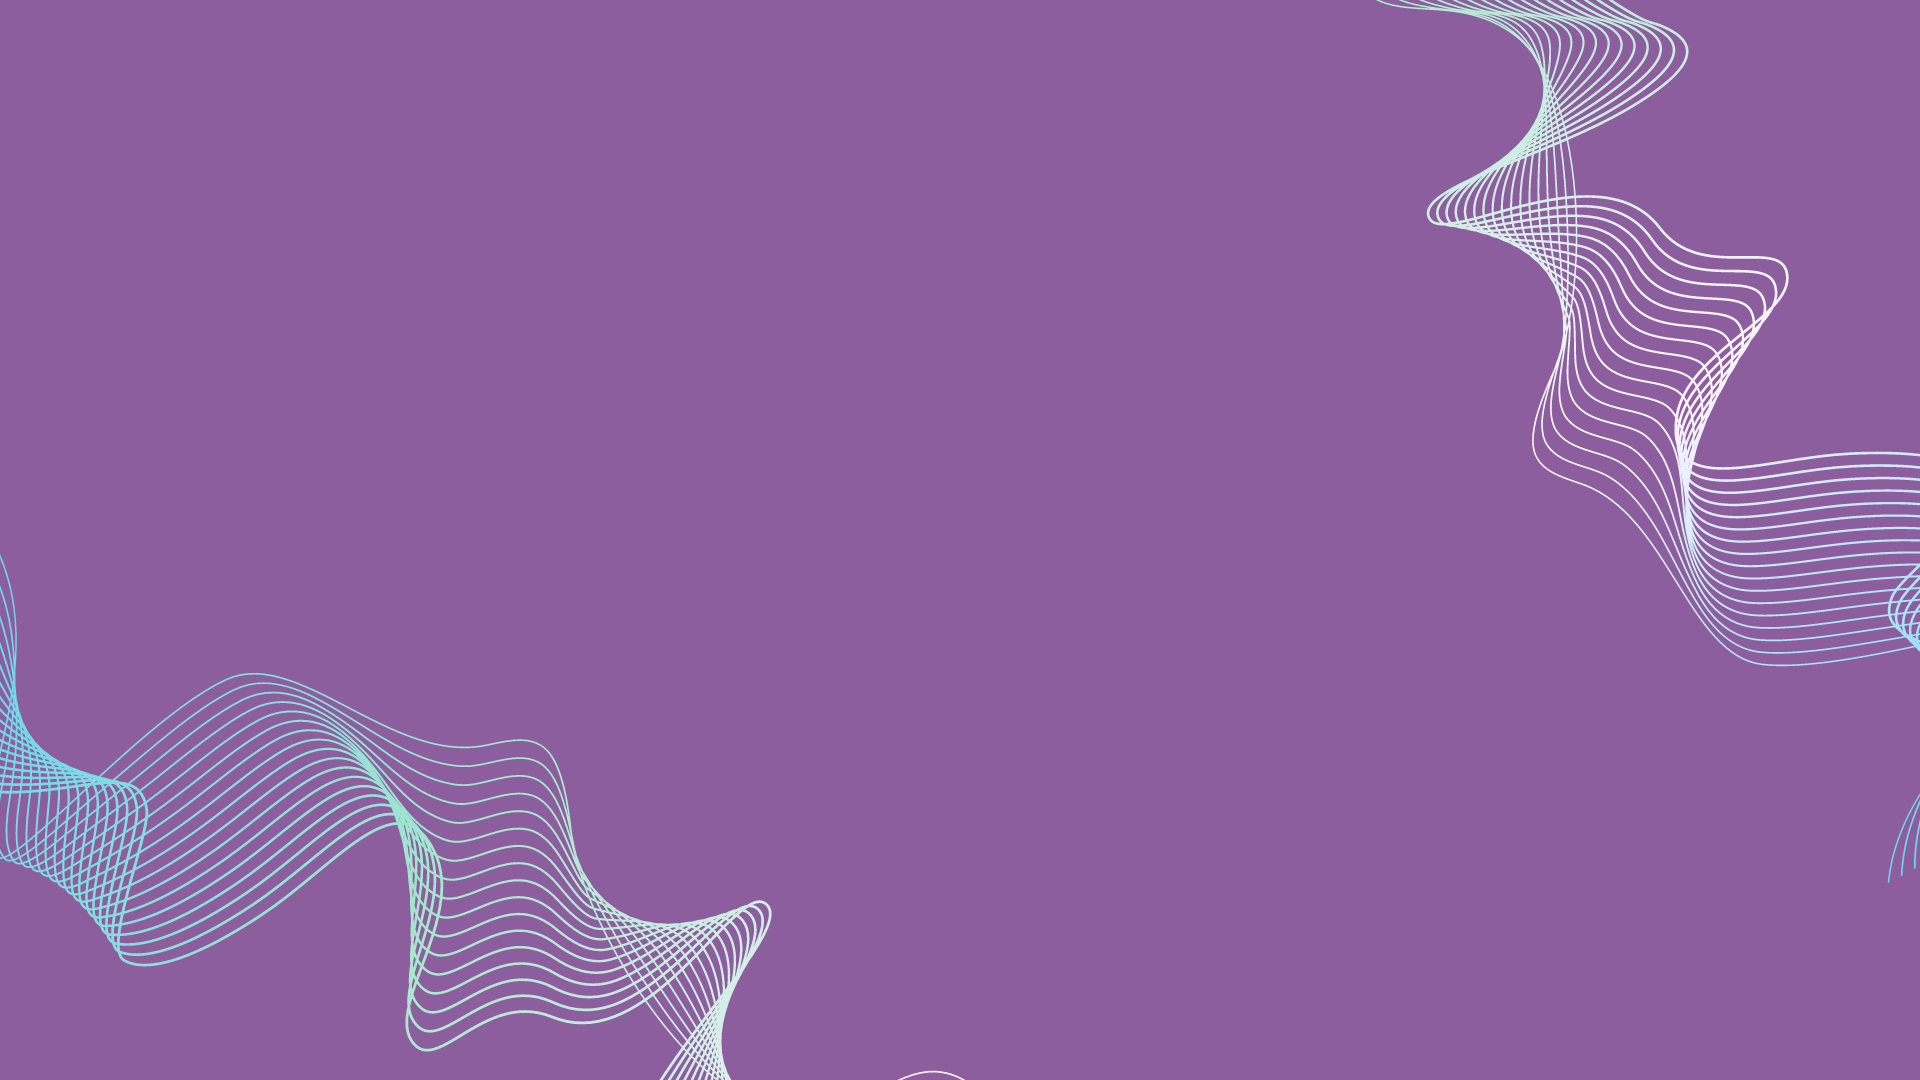
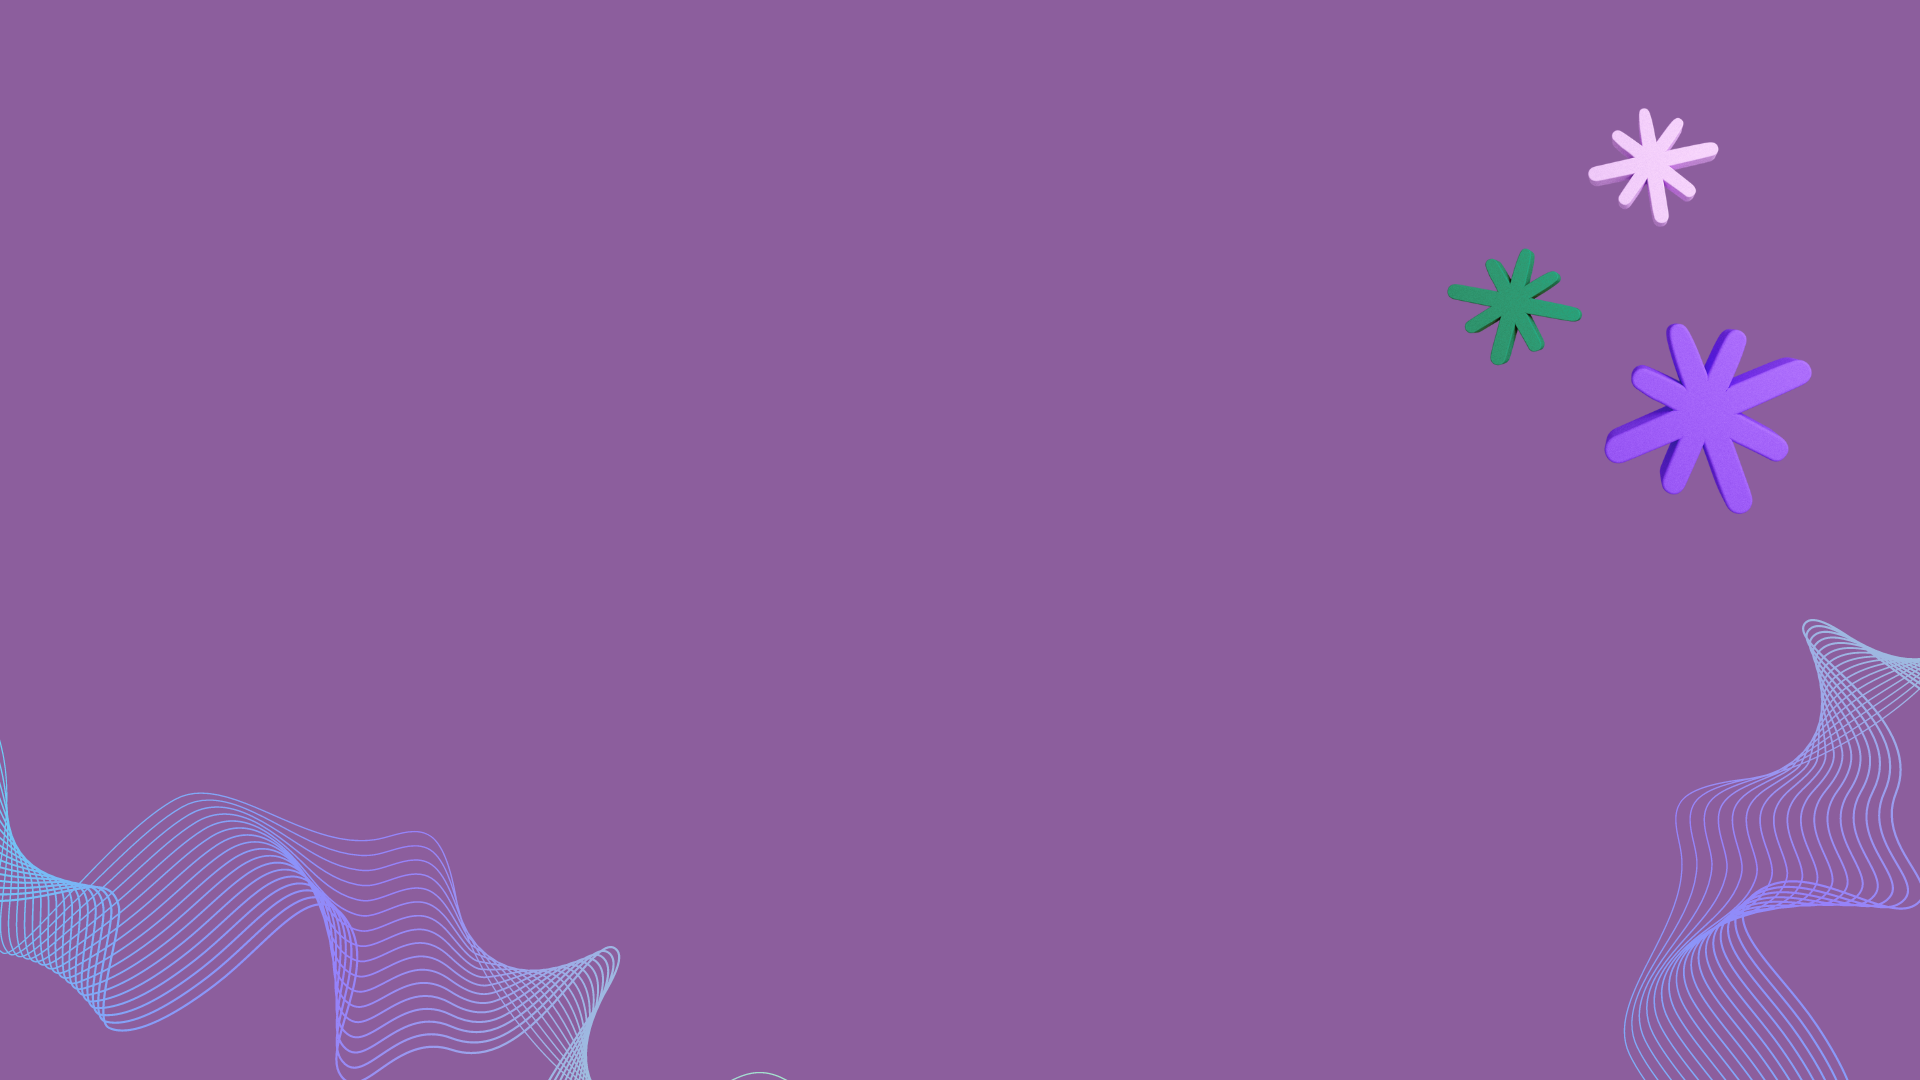
fondo de hero section

Changed region(s): [[0.7188, 0.0, 1.0, 1.0], [0.0, 0.5806, 0.4062, 1.0], [0.4688, 0.9778, 0.5, 1.0]]

diff --git a/css/hero.css b/css/hero.css
@@ -3,7 +3,7 @@
     align-items: center;
     justify-content: center;
     height: 100vh;
-    background-image: url('../img/prueba3.png');
+    background-image: url('../img/fondo-hero.png');
     background-size: cover;
     background-position: center;
     padding: 0 20px;
